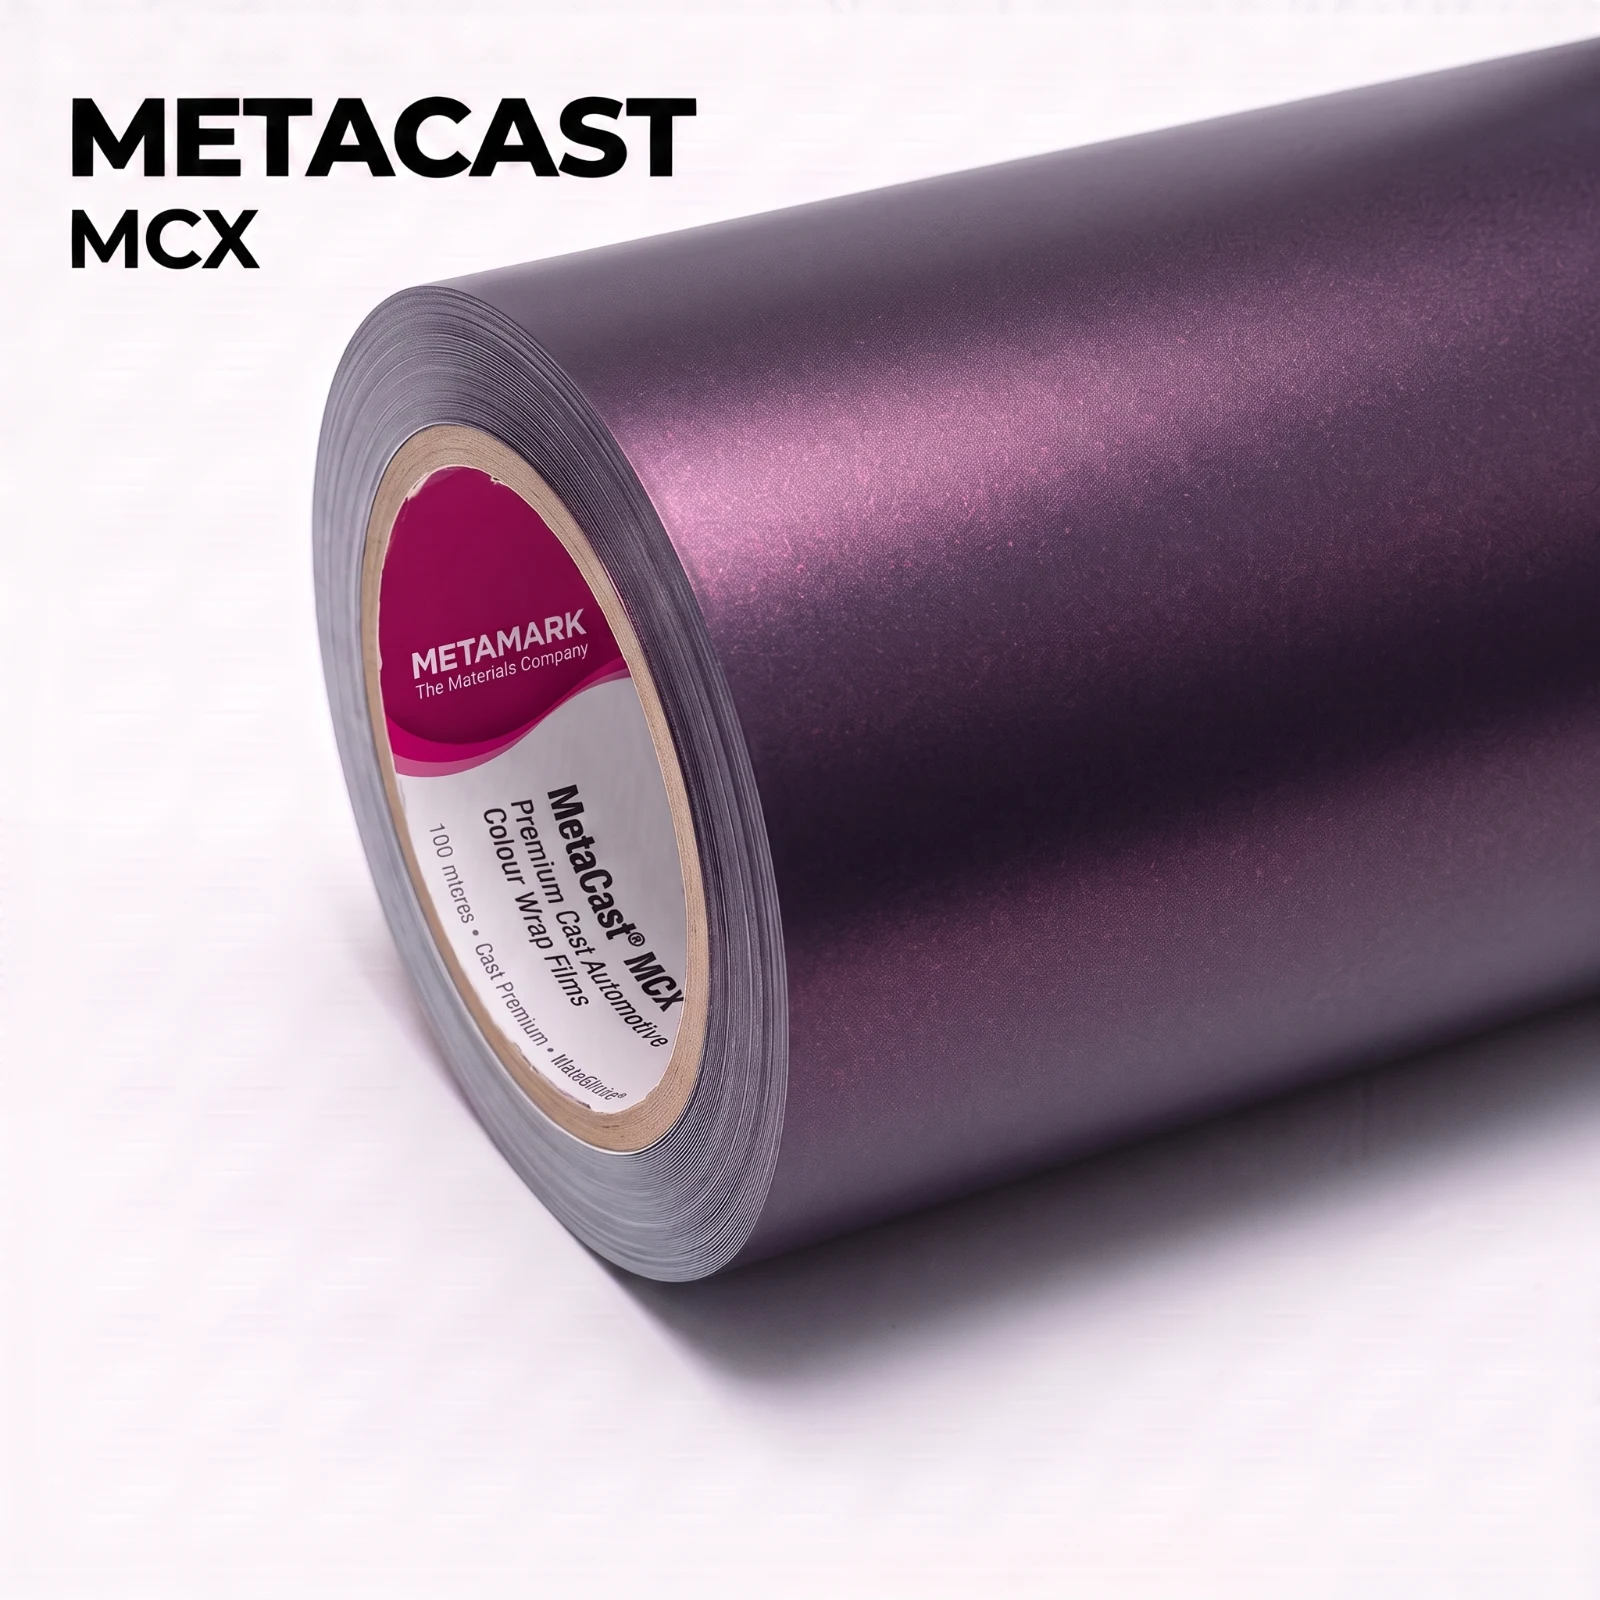
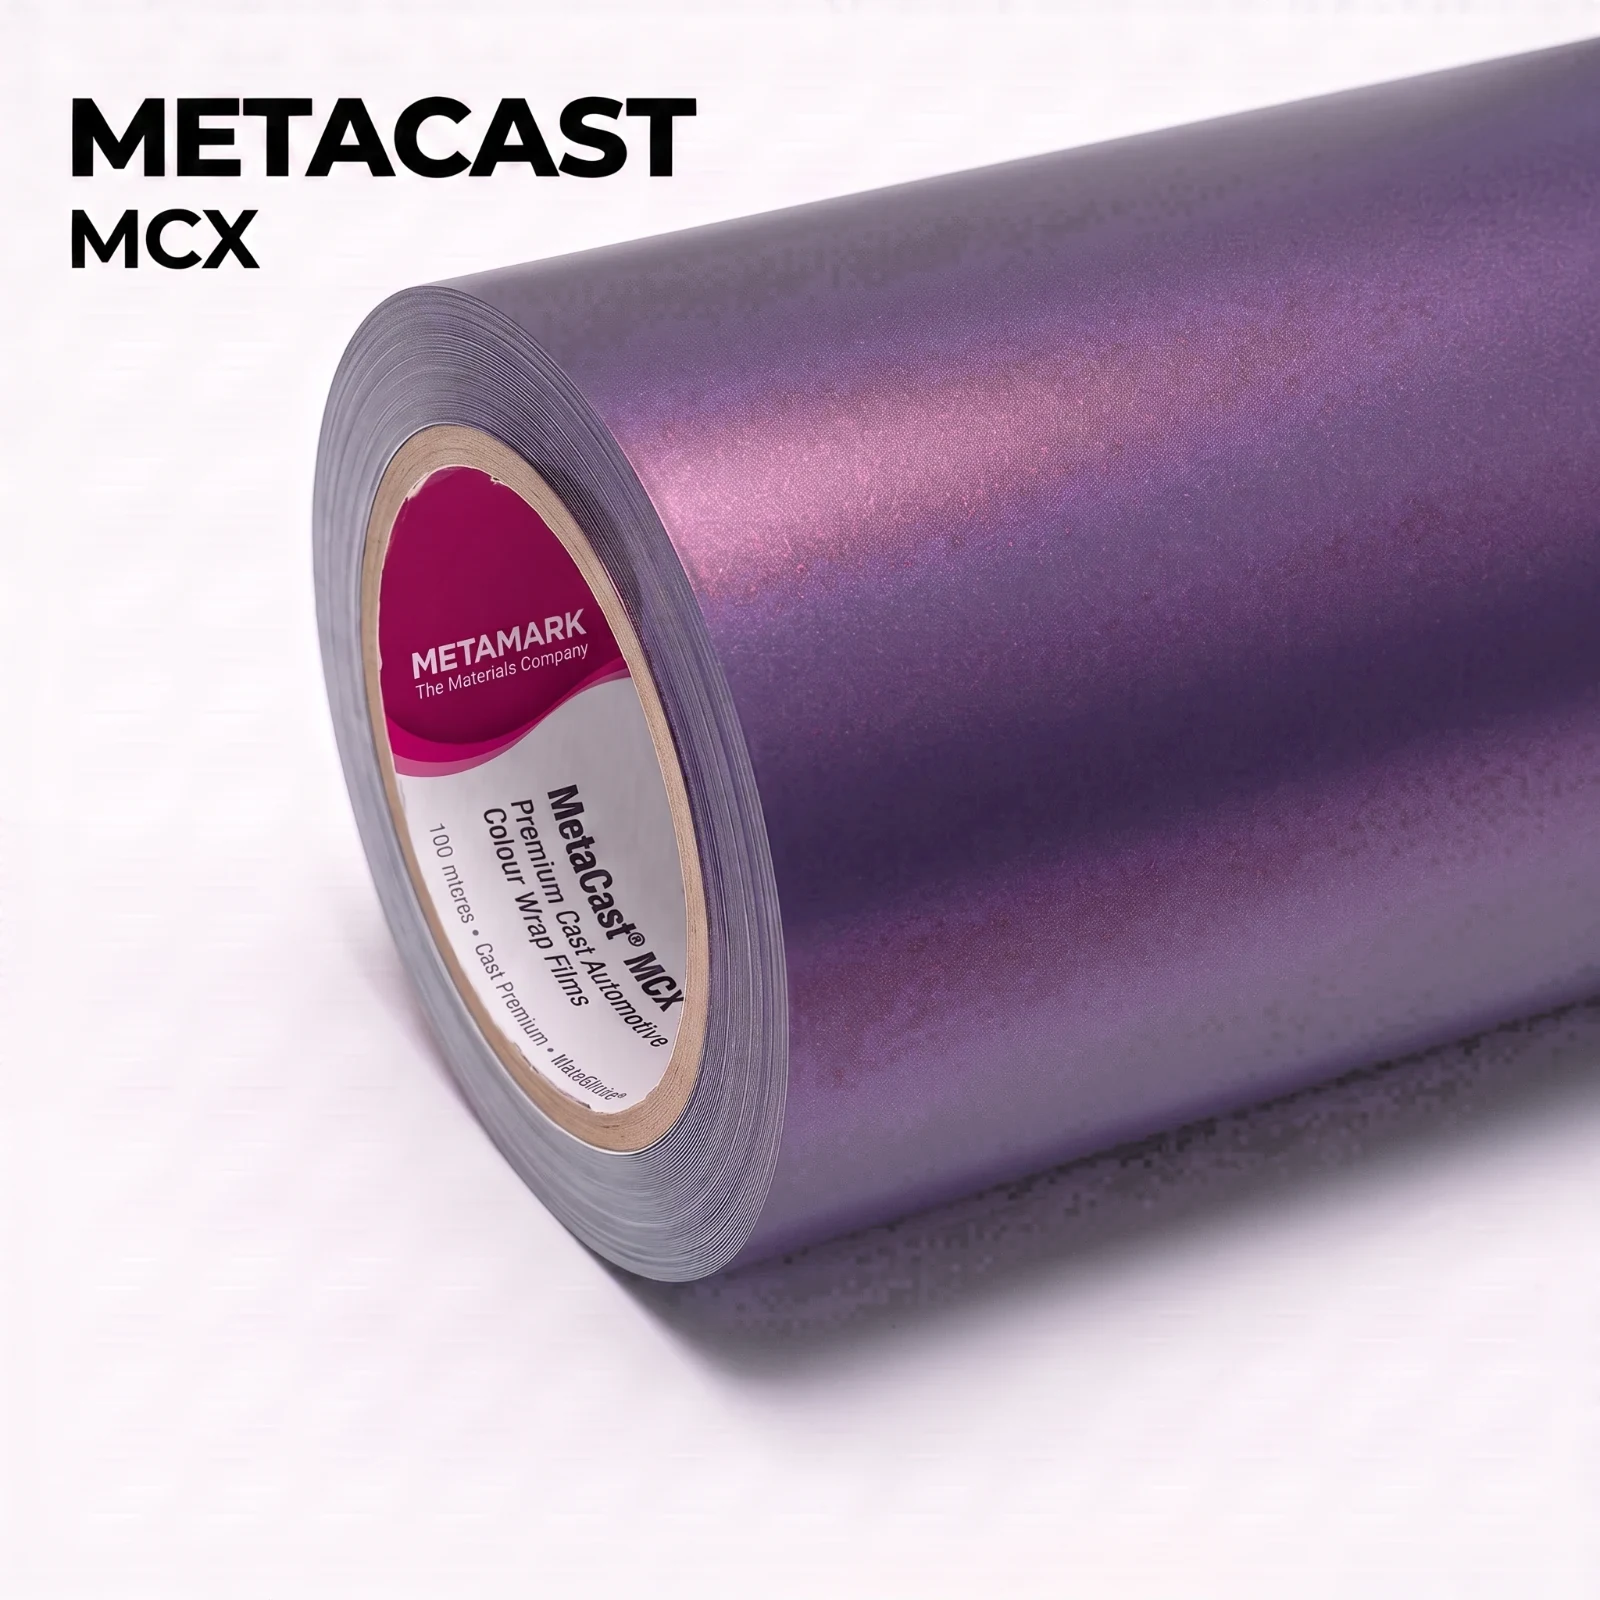
feat(mcx-87): quatro fotos Dodge Challenger SRT + capa recolorida na leitura (#684D76)

Changed region(s): [[0.3125, 0.0312, 1.0, 0.8438]]

diff --git a/src/lib/shop/generic.ts b/src/lib/shop/generic.ts
@@ -391,6 +391,41 @@ export const MCX_EXTRA_PHOTOS: Record<string, string[]> = {
     '/assets/images/metamark/mcx/aplicacao/mcx-54-bavarian-blue-4.jpg',
     '/assets/images/metamark/mcx/aplicacao/mcx-54-bavarian-blue-5.jpg',
   ],
+  // MCX-87 Plum Crazy — leitura #684D76 · H 280° · S 35% · V 46% · MATT
+  // METALLIC. Âncora no chip, com uma incerteza declarada: a foto da brochure
+  // (um AMG GT) lê entre 250 e 263°, uns 20° mais azulada que o chip. Sem
+  // amostra física ficou o chip, que é a referência sancionada.
+  //
+  // O NOME ENGANA. Plum Crazy é a FC7 da Mopar, High Impact de 1970 — um roxo
+  // vivo e chapado. O filme não é aquilo: mede 35% de saturação contra os 70+
+  // da tinta. É um violeta acinzentado, mais perto de um "Frozen" moderno.
+  // Quem pedir "o roxo do Challenger" não está pedindo esta cor.
+  //
+  // Dodge Challenger SRT em pista de arrancada, nublado claro e LUZ FRIA: sob
+  // luz quente esse violeta embarra e vira marrom.
+  //
+  // DOIS DEFEITOS E O QUE RESOLVEU CADA UM:
+  // 1. O parachoque dianteiro lia como outra cor. Diagnostiquei degradê de
+  //    matiz e errei — filtrando as células com V>=35 e S>=15 a amplitude cai
+  //    de 63° para 7°; os 63° eram ruído de região escura. O defeito real era
+  //    salto de VALOR entre painéis vizinhos (37 a 40 pontos, contra o máximo
+  //    de 33,7 nos conjuntos aprovados). Três tentativas de prompt não moveram
+  //    isso. Quem resolveu foi a correção de saturação: com o violeta cheio,
+  //    parachoque e para-lama voltam a ler como o mesmo material.
+  // 2. A -5 saiu pálida demais (V 68 contra 46). Corrigir exigiria gama 2,0, e
+  //    isso amplificou a compressão do JPEG — painel com bandas e blocos, com
+  //    estouro zero. Foi regerada, não corrigida. Virou guarda no script.
+  //
+  // Medidos depois da correção de saturação: -2 H285 S31 V39, -3 H287 S34 V42,
+  // -4 H282 S35 V41, -5 H283 S34 V28. Saturação dentro de ±4 da leitura. O
+  // valor abaixo é sombra de cena; a -5 é macro com metade do painel na sombra,
+  // e a parte iluminada dela está em V 61.
+  'mcx-87-plum-crazy': [
+    '/assets/images/metamark/mcx/aplicacao/mcx-87-plum-crazy-2.jpg',
+    '/assets/images/metamark/mcx/aplicacao/mcx-87-plum-crazy-3.jpg',
+    '/assets/images/metamark/mcx/aplicacao/mcx-87-plum-crazy-4.jpg',
+    '/assets/images/metamark/mcx/aplicacao/mcx-87-plum-crazy-5.jpg',
+  ],
 };
 
 export const MCX_ROLL_IMAGES: Record<string, string> = {

diff --git a/scripts/recolorir-capa.py b/scripts/recolorir-capa.py
@@ -163,7 +163,14 @@ def achar_label(h: np.ndarray, s: np.ndarray, v: np.ndarray, margem: int) -> np.
     é dilatado pela margem — crescer a PROTEÇÃO é inócuo, ao contrário de
     crescer a máscara do filme.
     """
-    magenta = ((h >= 300) & (h <= 352) & (s >= 0.30) & (v >= 0.15))
+    # A saturação mínima é 0,55, não 0,30, e o motivo é concreto: numa capa roxa
+    # (MCX-87 Plum Crazy) parte do próprio filme cai na faixa de matiz do
+    # magenta. A 0,30 isso marcava 13,6% da imagem, o maior blob unia label e
+    # lataria, e a elipse resultante cobria o rolo inteiro — a correção deixava
+    # uma mancha oval enorme por cima do filme. A 0,55 as capas roxa, verde e
+    # azul convergem todas em ~1,9%, que é o label e mais nada. O campo magenta
+    # impresso é muito mais saturado que qualquer filme da linha.
+    magenta = ((h >= 300) & (h <= 352) & (s >= 0.55) & (v >= 0.15))
     if magenta.sum() < 200:
         return np.zeros_like(magenta)
     marcas, n = rotular(magenta)
@@ -171,6 +178,11 @@ def achar_label(h: np.ndarray, s: np.ndarray, v: np.ndarray, margem: int) -> np.
         return np.zeros_like(magenta)
     maior = 1 + int(np.argmax(np.bincount(marcas.ravel())[1:]))
     disco = binary_fill_holes(marcas == maior)
+    # Cinto e suspensório: o label ocupa uns 3% da capa. Se o blob passou de 8%,
+    # alguma coisa se fundiu com ele e proteger aquilo faria mais estrago do que
+    # não proteger nada.
+    if disco.mean() > 0.08:
+        return np.zeros_like(magenta)
     # o label é maior que só o campo magenta: fecha a elipse inteira pelo bbox
     ys, xs = np.nonzero(disco)
     cy, cx = (ys.min() + ys.max()) / 2, (xs.min() + xs.max()) / 2
@@ -213,6 +225,12 @@ def main() -> int:
     ap.add_argument('--margem-label', type=int, default=10,
                     help='folga em px em volta do paper label protegido (0 desliga a proteção)')
     ap.add_argument('--qualidade', type=int, default=88, help='qualidade do webp de saída')
+    ap.add_argument('--manter-valor', action='store_true',
+                    help='corrige matiz e saturação e deixa o valor como está — é o caso de FOTO '
+                         'de cena, onde a mediana fica abaixo da leitura porque metade da lataria '
+                         'está em sombra, e levantar isso clarearia o carro inteiro sem motivo')
+    ap.add_argument('--manter-matiz', action='store_true',
+                    help='não desloca o matiz; use quando só a saturação ou o valor estão fora')
     args = ap.parse_args()
 
     src = Path(args.entrada)
@@ -240,14 +258,14 @@ def main() -> int:
 
     # Gama que leva a mediana medida exatamente ao alvo, preservando 0 e 1.
     gama_s = np.log(max(s_alvo, 1e-4)) / np.log(max(antes['s'] / 100, 1e-4))
-    gama_v = np.log(max(v_alvo, 1e-4)) / np.log(max(antes['v'] / 100, 1e-4))
+    gama_v = 1.0 if args.manter_valor else np.log(max(v_alvo, 1e-4)) / np.log(max(antes['v'] / 100, 1e-4))
 
     # Matiz é CIRCULAR: a diferença tem de vir pelo caminho curto. Sem isto, numa
     # capa vermelha os pixels logo acima de 0° distam ~346° dos logo abaixo de
     # 360°, a compressão os joga para o outro lado da roda e aparece um anel
     # verde em volta do label. Foi exatamente o que o teste do Volcano Red pegou.
     dh = (h - antes['h'] + 180.0) % 360.0 - 180.0
-    h2 = (h_alvo + dh * args.compressao_matiz) % 360.0
+    h2 = h.copy() if args.manter_matiz else (h_alvo + dh * args.compressao_matiz) % 360.0
     s2 = np.clip(np.clip(s, 1e-4, 1.0) ** gama_s, 0, 1)
     v2 = np.clip(np.clip(v, 1e-4, 1.0) ** gama_v, 0, 1)
 
@@ -281,11 +299,27 @@ def main() -> int:
     print(f'gravado em  {dst}')
 
     saida = 0
-    dh_err = abs((depois['h'] - h_alvo + 180) % 360 - 180)
-    erro = max(dh_err, abs(depois['s'] - s_alvo * 100), abs(depois['v'] - v_alvo * 100))
+    # Matiz só entra na conta do erro quando há cor suficiente para ele
+    # significar algo. Num preto a 5% de saturação um nível de canal move o
+    # matiz dezenas de graus, e a capa da MCX-12 disparava alarme por isso
+    # estando correta.
+    dh_err = 0.0 if depois['s'] < 10 or args.manter_matiz else abs((depois['h'] - h_alvo + 180) % 360 - 180)
+    # Com --manter-valor a diferença de valor é intencional, não desvio.
+    dv_err = 0.0 if args.manter_valor else abs(depois['v'] - v_alvo * 100)
+    erro = max(dh_err, abs(depois['s'] - s_alvo * 100), dv_err)
     if erro > 1.5:
         print(f'ATENÇÃO: desvio de {erro:.1f} contra o alvo — confira antes de publicar', file=sys.stderr)
         saida = 2
+    # Estouro não é o único jeito de estragar a imagem. Uma gama de valor longe
+    # de 1 aplicada sobre JPEG amplifica a quantização em blocos 8x8: na foto de
+    # detalhe da MCX-87, corrigir V de 68 para 46 deu gama 2,0 e o painel saiu
+    # com bandas e blocos visíveis, apesar de estouro zero. Fonte tão longe do
+    # alvo assim precisa ser REGERADA, não corrigida.
+    if not 0.6 <= gama_v <= 1.6 or not 0.5 <= gama_s <= 2.0:
+        print(f'ATENÇÃO: correção agressiva (gama V {gama_v:.2f} · gama S {gama_s:.2f}). '
+              f'Em JPEG isso costuma sair com bandas — confira a imagem de perto, '
+              f'e se aparecer bloco, regere em vez de corrigir.', file=sys.stderr)
+        saida = max(saida, 4)
     if max(corte_s, corte_v) > 2.0:
         print(f'ATENÇÃO: {max(corte_s, corte_v):.1f}% do filme estourou — correção grande demais, '
               f'esta capa precisa ser regerada na cor, não corrigida', file=sys.stderr)
